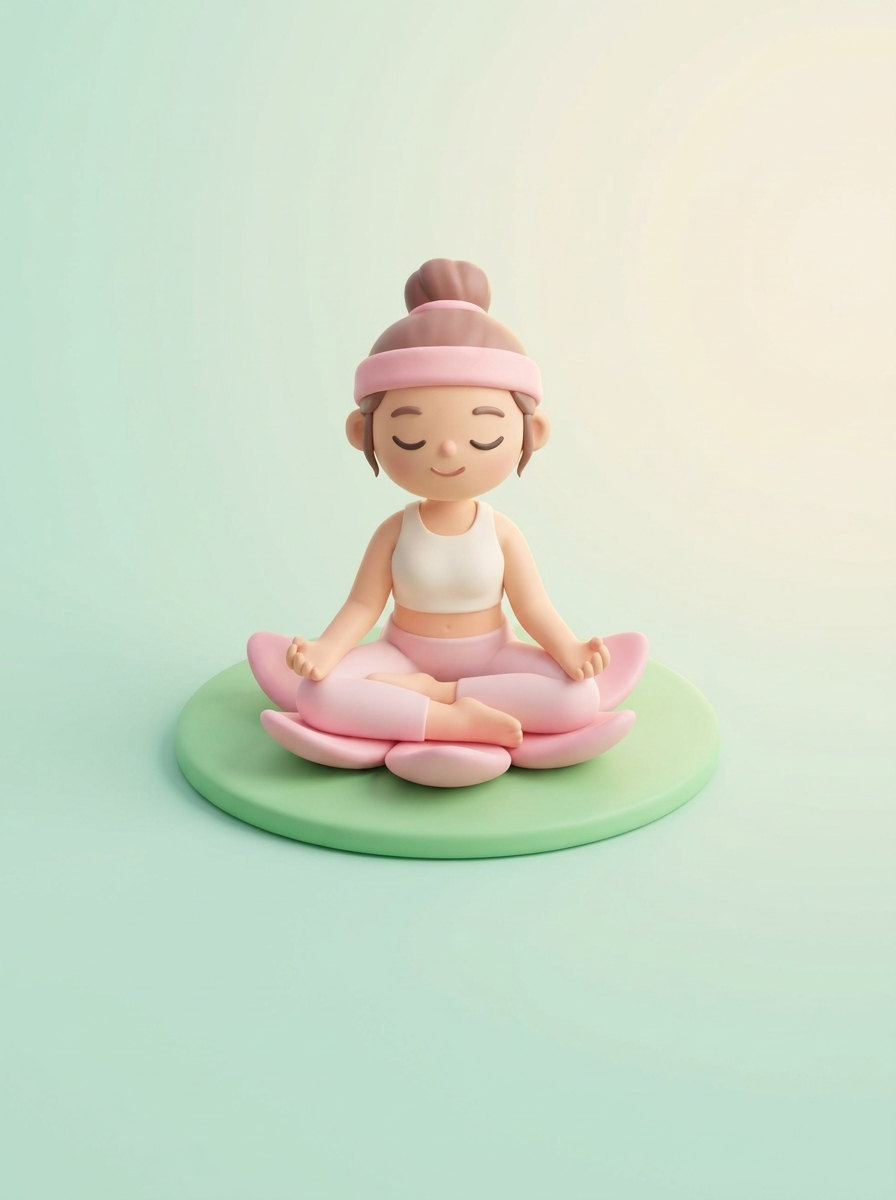
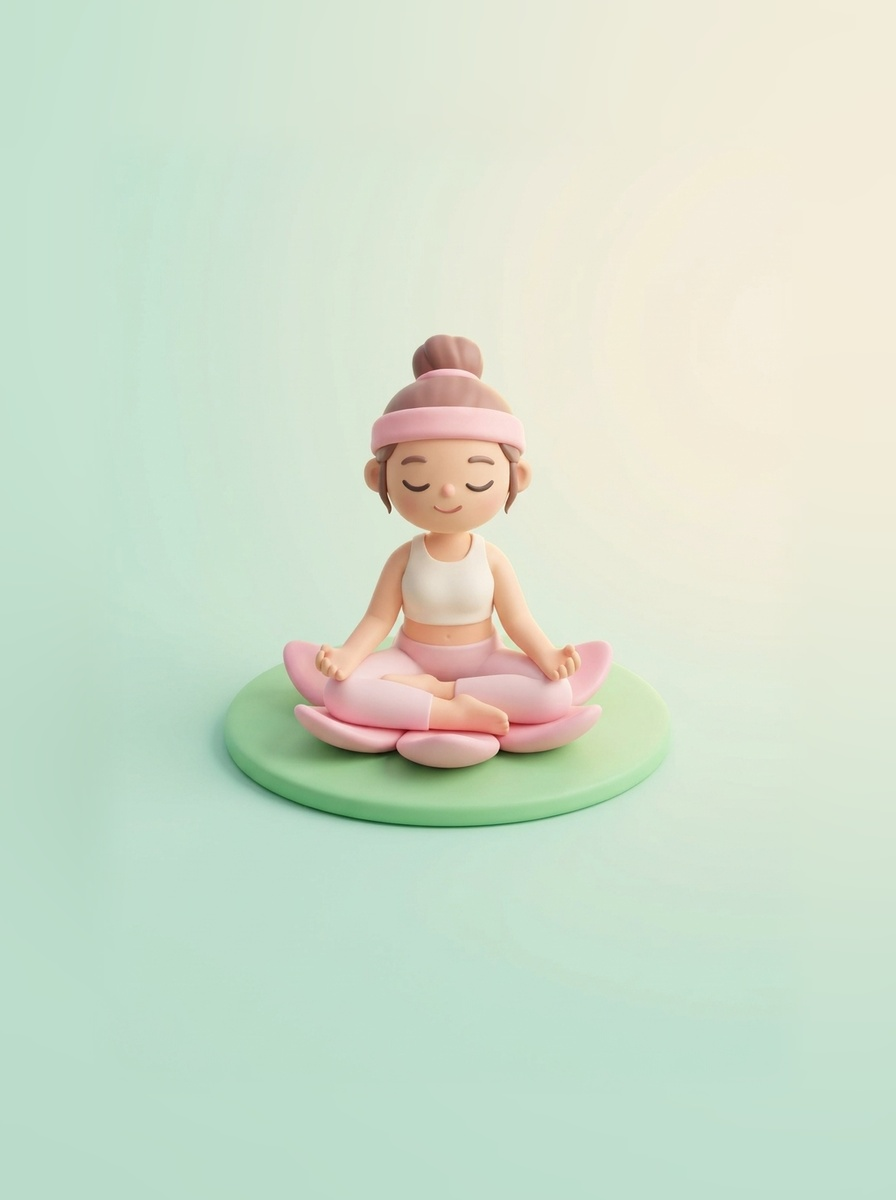
fix(zen): scale down character size by 18% with generous headroom and breathing space

Changed region(s): [[0.1562, 0.2158, 0.7812, 0.74], [0.75, 0.5858, 0.7812, 0.6167]]

diff --git a/src/features/dashboard/CaseDashboard.tsx b/src/features/dashboard/CaseDashboard.tsx
@@ -228,7 +228,7 @@ export default function CaseDashboard() {
                 style={{
                   backgroundImage: 'linear-gradient(180deg, rgba(255, 255, 255, 0.0) 0%, rgba(255, 255, 255, 0.0) 52%, rgba(240, 253, 244, 0.45) 78%, rgba(240, 253, 244, 0.92) 100%), url(/images/zen_opt1_minimalist_lotus.jpg)',
                   backgroundSize: 'cover',
-                  backgroundPosition: 'center',
+                  backgroundPosition: 'center 30%',
                   backdropFilter: 'blur(32px)', 
                   WebkitBackdropFilter: 'blur(32px)', 
                   border: '1px solid rgba(255, 255, 255, 0.9)', 
